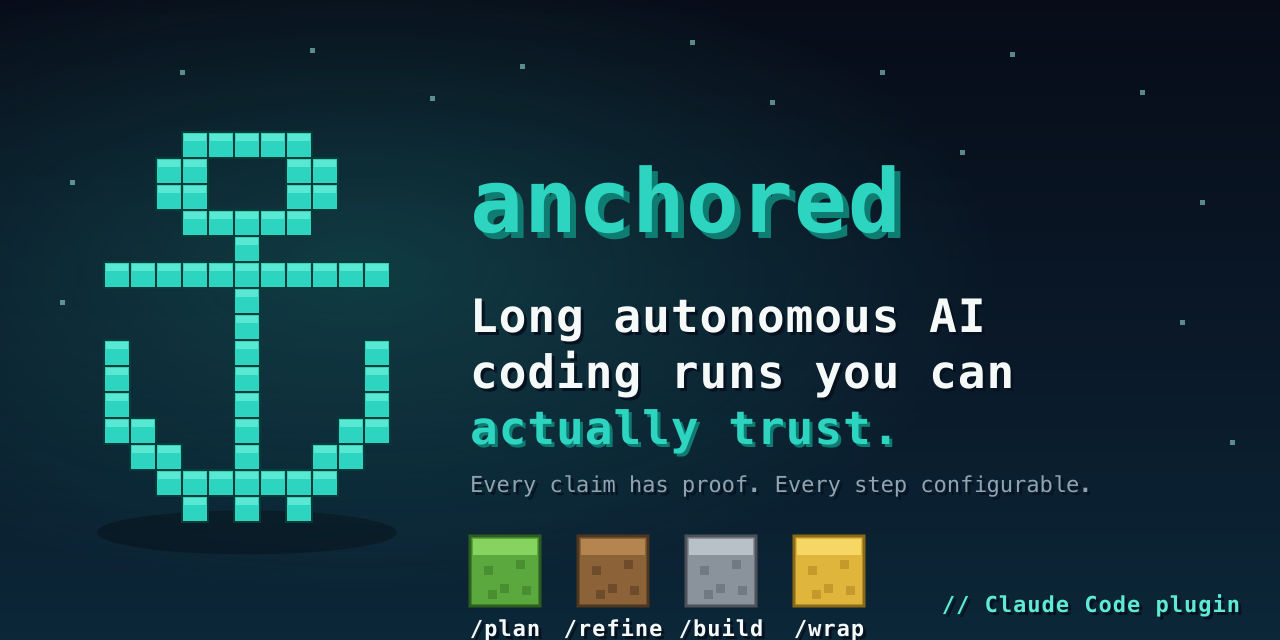
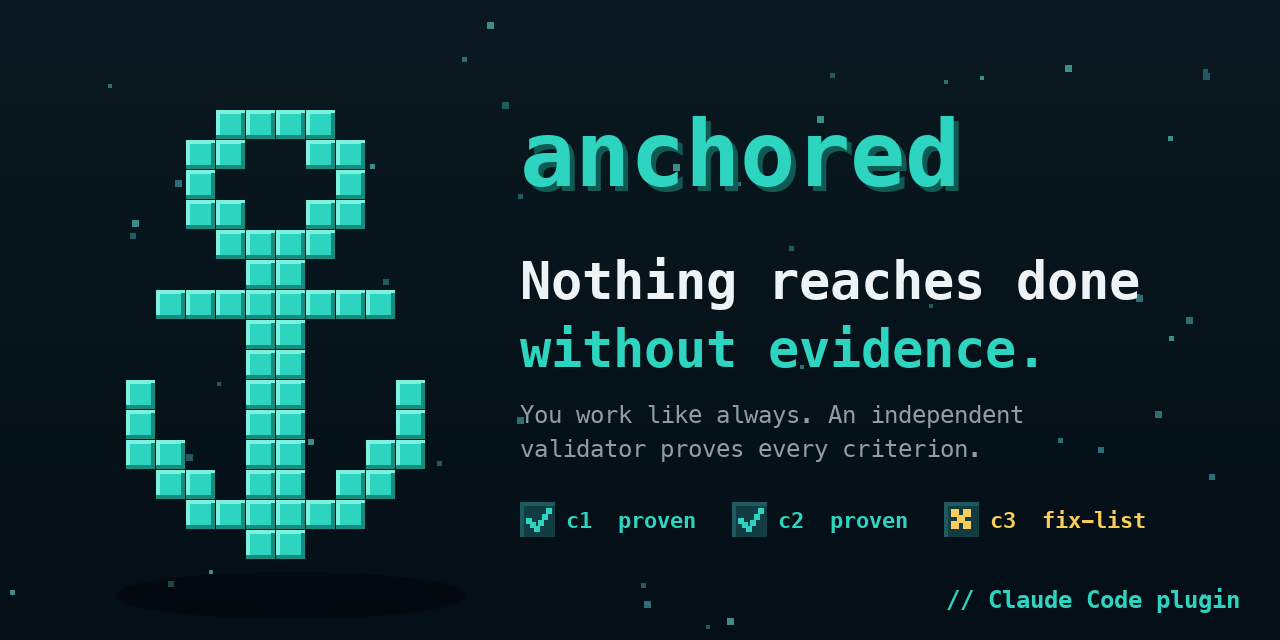
chore(assets): new v3 og-image — pixel anchor kept, message now the verification gate (evidence checkboxes replace the v2 stage blocks); generator script as source
Claude-Session: https://claude.ai/code/session_01DvzsVrwhrxagtbDEyYtFaM

diff --git a/assets/og-image.gen.py b/assets/og-image.gen.py
@@ -1,0 +1,136 @@
+# og-image generator — anchored v3. Pixel-anchor brand carried over, message updated:
+# the verification gate. 1280x640, deterministic.
+from PIL import Image, ImageDraw, ImageFont
+
+W, H = 1280, 640
+img = Image.new("RGB", (W, H))
+d = ImageDraw.Draw(img)
+
+# ── background: vertical navy→deep-teal gradient (like the old one) ──────────
+top, bottom = (10, 25, 33), (4, 14, 22)
+for y in range(H):
+    t = y / H
+    d.line([(0, y), (W, y)], fill=tuple(int(a + (b - a) * t) for a, b in zip(top, bottom)))
+
+# sparse pixel stars
+import random
+rng = random.Random(7)
+for _ in range(46):
+    x, y = rng.randint(10, W - 10), rng.randint(10, H - 10)
+    s = rng.choice([3, 4, 5, 6])
+    shade = rng.choice([(35, 90, 95), (45, 110, 115), (60, 140, 140)])
+    d.rectangle([x, y, x + s, y + s], fill=shade)
+
+# ── pixel block painter with bevel (teal like the old anchor) ────────────────
+TEAL = (45, 212, 191)
+TEAL_HI = (125, 240, 222)
+TEAL_LO = (23, 140, 126)
+
+
+def block(cx, cy, cell, color=TEAL, hi=TEAL_HI, lo=TEAL_LO):
+    x0, y0 = cx, cy
+    x1, y1 = cx + cell - 2, cy + cell - 2
+    d.rectangle([x0, y0, x1, y1], fill=color)
+    b = max(3, cell // 8)
+    d.rectangle([x0, y0, x1, y0 + b], fill=hi)          # top bevel
+    d.rectangle([x0, y0, x0 + b, y1], fill=hi)          # left bevel
+    d.rectangle([x0, y1 - b, x1, y1], fill=lo)          # bottom shade
+    d.rectangle([x1 - b, y0 + b, x1, y1], fill=lo)      # right shade
+
+
+# ── the anchor, on a block grid (14 cols × 15 rows) ──────────────────────────
+ANCHOR = [
+    "    XXXX    ",
+    "   XX  XX   ",
+    "   X    X   ",
+    "   XX  XX   ",
+    "    XXXX    ",
+    "     XX     ",
+    "  XXXXXXXX  ",
+    "     XX     ",
+    "     XX     ",
+    " X   XX   X ",
+    " X   XX   X ",
+    " XX  XX  XX ",
+    "  XX XX XX  ",
+    "   XXXXXX   ",
+    "     XX     ",
+]
+CELL = 30
+AX, AY = 96, 110
+for r, row in enumerate(ANCHOR):
+    for c, ch in enumerate(row):
+        if ch == "X":
+            block(AX + c * CELL, AY + r * CELL, CELL)
+
+# soft ellipse shadow under the anchor
+sh = Image.new("RGBA", (W, H), (0, 0, 0, 0))
+ImageDraw.Draw(sh).ellipse([AX + 20, AY + 15.2 * CELL + 6, AX + 12 * CELL + 10, AY + 15.6 * CELL + 40], fill=(0, 0, 0, 90))
+img = Image.alpha_composite(img.convert("RGBA"), sh).convert("RGB")
+d = ImageDraw.Draw(img)
+
+# ── typography (Menlo) ───────────────────────────────────────────────────────
+def font(size, bold=True):
+    return ImageFont.truetype("/System/Library/Fonts/Menlo.ttc", size, index=1 if bold else 0)
+
+
+TX = 520
+WHITE = (238, 244, 246)
+GRAY = (140, 158, 168)
+AMBER = (250, 204, 90)
+
+# wordmark with drop shadow
+f_word = font(92)
+d.text((TX + 5, 105), "anchored", font=f_word, fill=(16, 90, 84))
+d.text((TX, 100), "anchored", font=f_word, fill=TEAL)
+
+# headline — THE invariant
+f_head = font(52)
+d.text((TX, 250), "Nothing reaches done", font=f_head, fill=WHITE)
+d.text((TX, 318), "without evidence.", font=f_head, fill=TEAL)
+
+# subline
+f_sub = font(24, bold=False)
+d.text((TX, 400), "You work like always. An independent", font=f_sub, fill=GRAY)
+d.text((TX, 434), "validator proves every criterion.", font=f_sub, fill=GRAY)
+
+# ── v3 motif: an evidence-gated criteria list (replaces the 4 stage blocks) ──
+CY = 502
+CB = 34  # checkbox cell
+f_label = font(22)
+
+
+def checkbox(x, y, state):
+    # box
+    box_col = (16, 60, 66)
+    d.rectangle([x, y, x + CB, y + CB], fill=box_col)
+    d.rectangle([x, y, x + CB, y + 3], fill=(30, 90, 96))
+    d.rectangle([x, y, x + 3, y + CB], fill=(30, 90, 96))
+    if state == "done":
+        # pixel check
+        for i, (dx, dy) in enumerate([(6, 16), (10, 20), (14, 24), (18, 18), (22, 12), (26, 6)]):
+            d.rectangle([x + dx, y + dy, x + dx + 5, y + dy + 5], fill=TEAL)
+    elif state == "failed":
+        for dx, dy in [(7, 7), (13, 13), (19, 19), (7, 19), (19, 7), (13, 13)]:
+            d.rectangle([x + dx, y + dy, x + dx + 7, y + dy + 7], fill=AMBER)
+
+
+rows = [
+    ("done", "c1  proven", TEAL),
+    ("done", "c2  proven", TEAL),
+    ("failed", "c3  fix-list", AMBER),
+]
+x = TX
+for state, label, col in rows:
+    checkbox(x, CY, state)
+    d.text((x + CB + 12, CY + 5), label, font=f_label, fill=col)
+    x += CB + 12 + int(d.textlength(label, font=f_label)) + 36
+
+# footer
+f_foot = font(24)
+tag = "// Claude Code plugin"
+d.text((W - d.textlength(tag, font=f_foot) - 40, 585), tag, font=f_foot, fill=TEAL)
+
+out = "/Users/jack/Dev/anchored-v3/assets/og-image-new.png"
+img.save(out)
+print("saved", out)